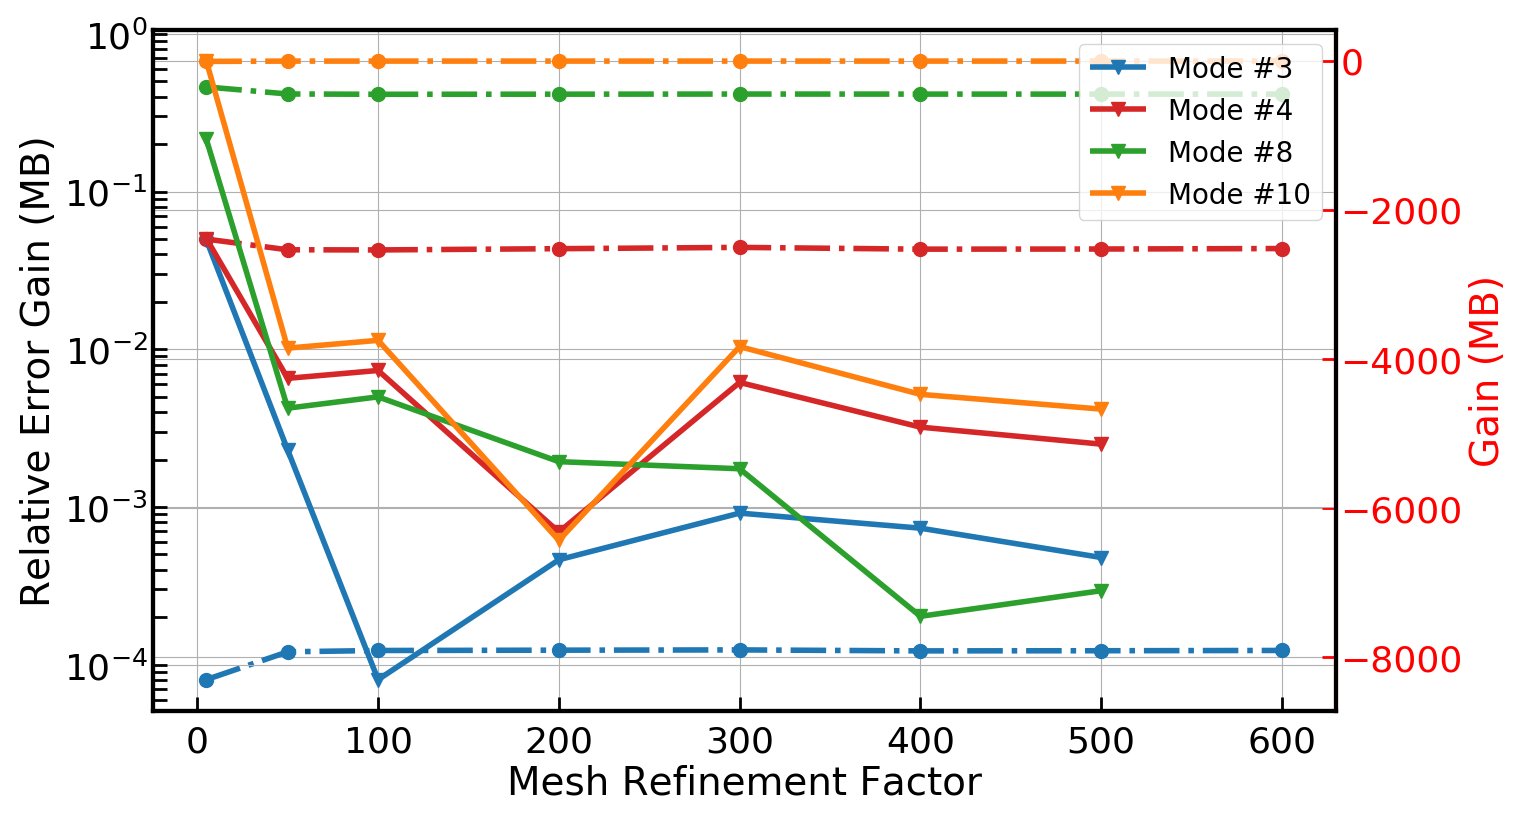
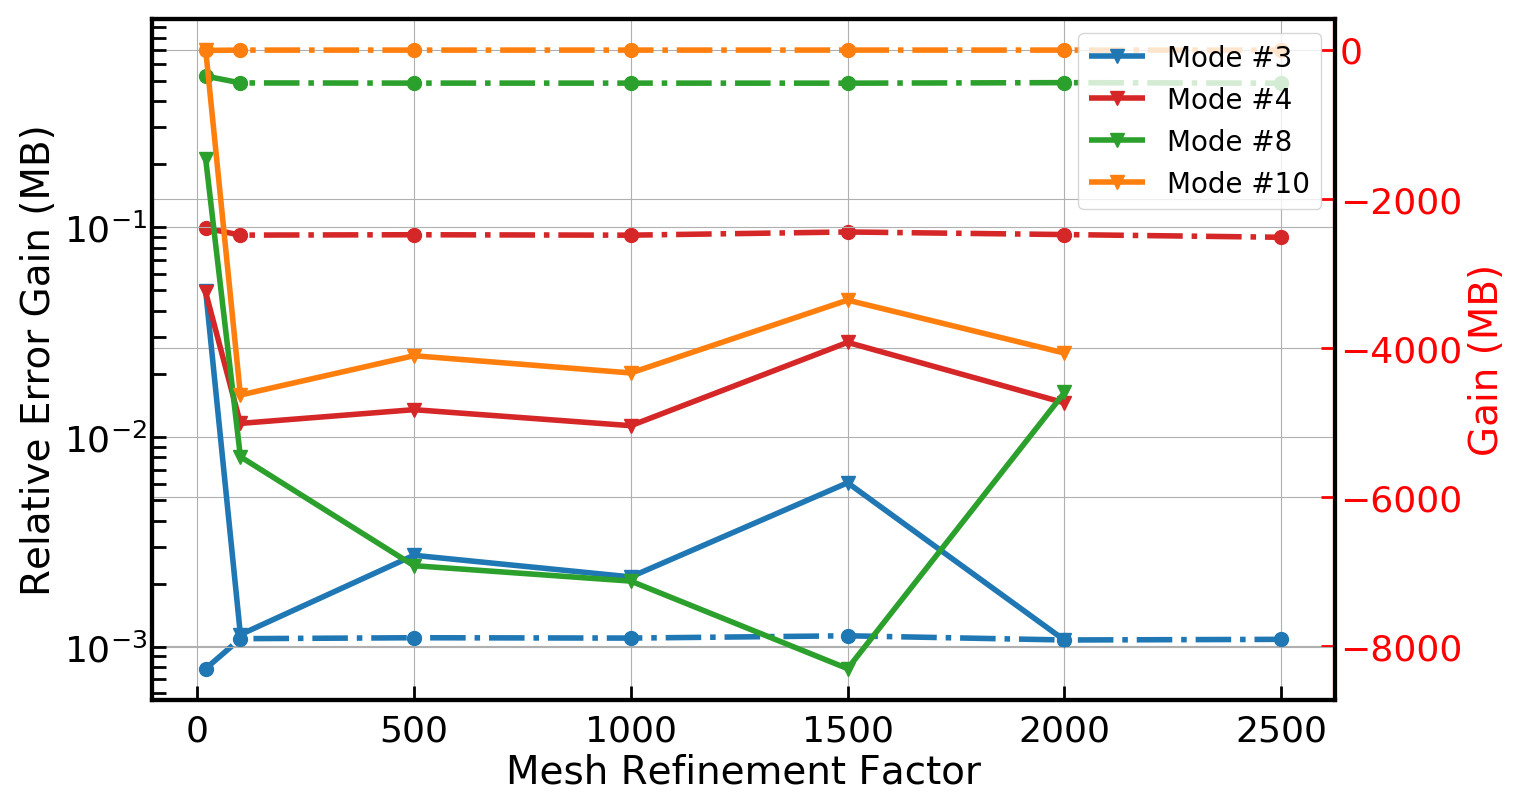
Bringing convergence test example and tests into line with new standard mesh.

Changed region(s): [[0.0, 0.0, 0.9862, 0.9864], [0.863, 0.5857, 0.9554, 0.6473]]

diff --git a/tests/test_case_0_rect_silicon.py b/tests/test_case_0_rect_silicon.py
@@ -105,13 +105,13 @@ masked = SBS_gain[EM_ival_pump,EM_ival_Stokes,:]
 test_list1 = list(zip(sim_EM_pump.Eig_values, sim_AC_wguide.Eig_values))
 test_list2 = list(zip(masked_PE, masked_MB, masked))
 
-# # SAVE DATA AS REFERENCE
-# # Only run this after changing what is simulated - this
-# # generates a new set of reference answers to check against
-# # in the future
-# np.savez_compressed("ref/%s.npz" % casefile_name, 
-#         test_list1 = test_list1, test_list2 = test_list2)
-# assert False, "Reference results saved successfully, \n tests would pass trivially so we'll skip them."
+# SAVE DATA AS REFERENCE
+# Only run this after changing what is simulated - this
+# generates a new set of reference answers to check against
+# in the future
+np.savez_compressed("ref/%s.npz" % casefile_name, 
+        test_list1 = test_list1, test_list2 = test_list2)
+assert False, "Reference results saved successfully, \n tests would pass trivially so we'll skip them."
 
 def test_list_matches_saved(casefile_name = casefile_name):
     rtol = 1e-6

diff --git a/tutorials/simo-tut_05-convergence_study.py b/tutorials/simo-tut_05-convergence_study.py
@@ -37,7 +37,7 @@ AC_ival = 'All'
 
 prefix_str = 'tut_05-'
 
-lc_list = [20,200,500,1000,1500,2000,3000]
+lc_list = [20,100,500,1000,1500,2000,2500]
 nu_lcs = len(lc_list)
 lc_bkg_list = 1*np.ones(nu_lcs)
 x_axis = lc_list
@@ -47,7 +47,7 @@ time_list = []
 for i_lc, lc_ref in enumerate(lc_list):
     start = time.time()
     print("\n Running simulation", i_lc+1, "/", nu_lcs)
-    lc3 = lc_ref/5
+    lc3 = lc_ref/2
     lc_bkg = lc_bkg_list[i_lc]
     wguide = objects.Struct(unitcell_x,inc_a_x,unitcell_y,
                             inc_a_y,inc_shape,
@@ -224,4 +224,3 @@ plt.savefig(prefix_str+'convergence-Gain_MB.png', bbox_inches='tight')
 plt.close()
 
 print("Calculation time", time_list)
-

diff --git a/tutorials/simo-tut_01-first_calc.py b/tutorials/simo-tut_01-first_calc.py
@@ -57,7 +57,10 @@ AC_ival = 'All'
 wguide = objects.Struct(unitcell_x,inc_a_x,unitcell_y,inc_a_y,inc_shape,
                         material_bkg=materials.Vacuum,
                         material_a=materials.Si_2016_Smith,
-                        lc_bkg=1, lc2=600.0, lc3=300.0, plt_mesh=True)
+                        lc_bkg=1, # in vacuum background
+                        lc2=600.0, # on cylinder surfaces
+                        lc3=300.0, # on cylinder center
+                        plt_mesh=True)
 
 # Explicitly remind ourselves what data we're using.
 print('\nUsing %s material data from' % wguide.material_a.chemical)
